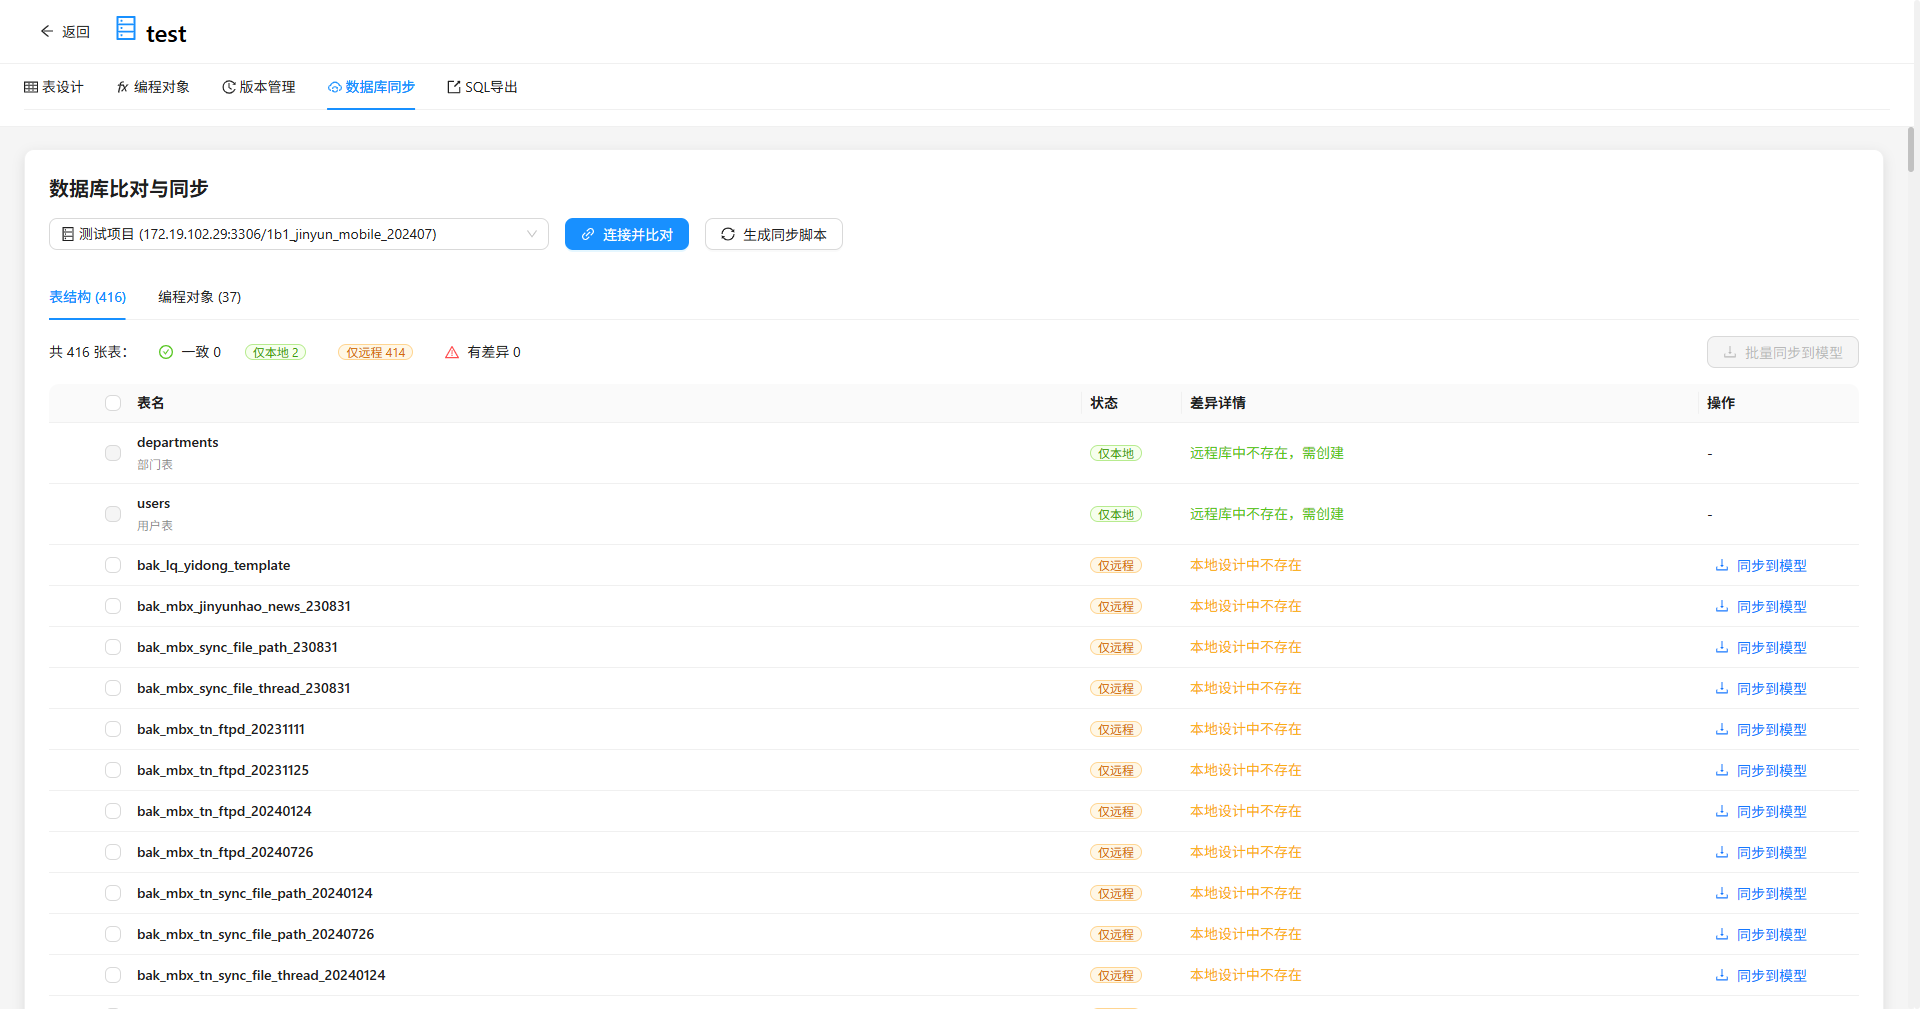
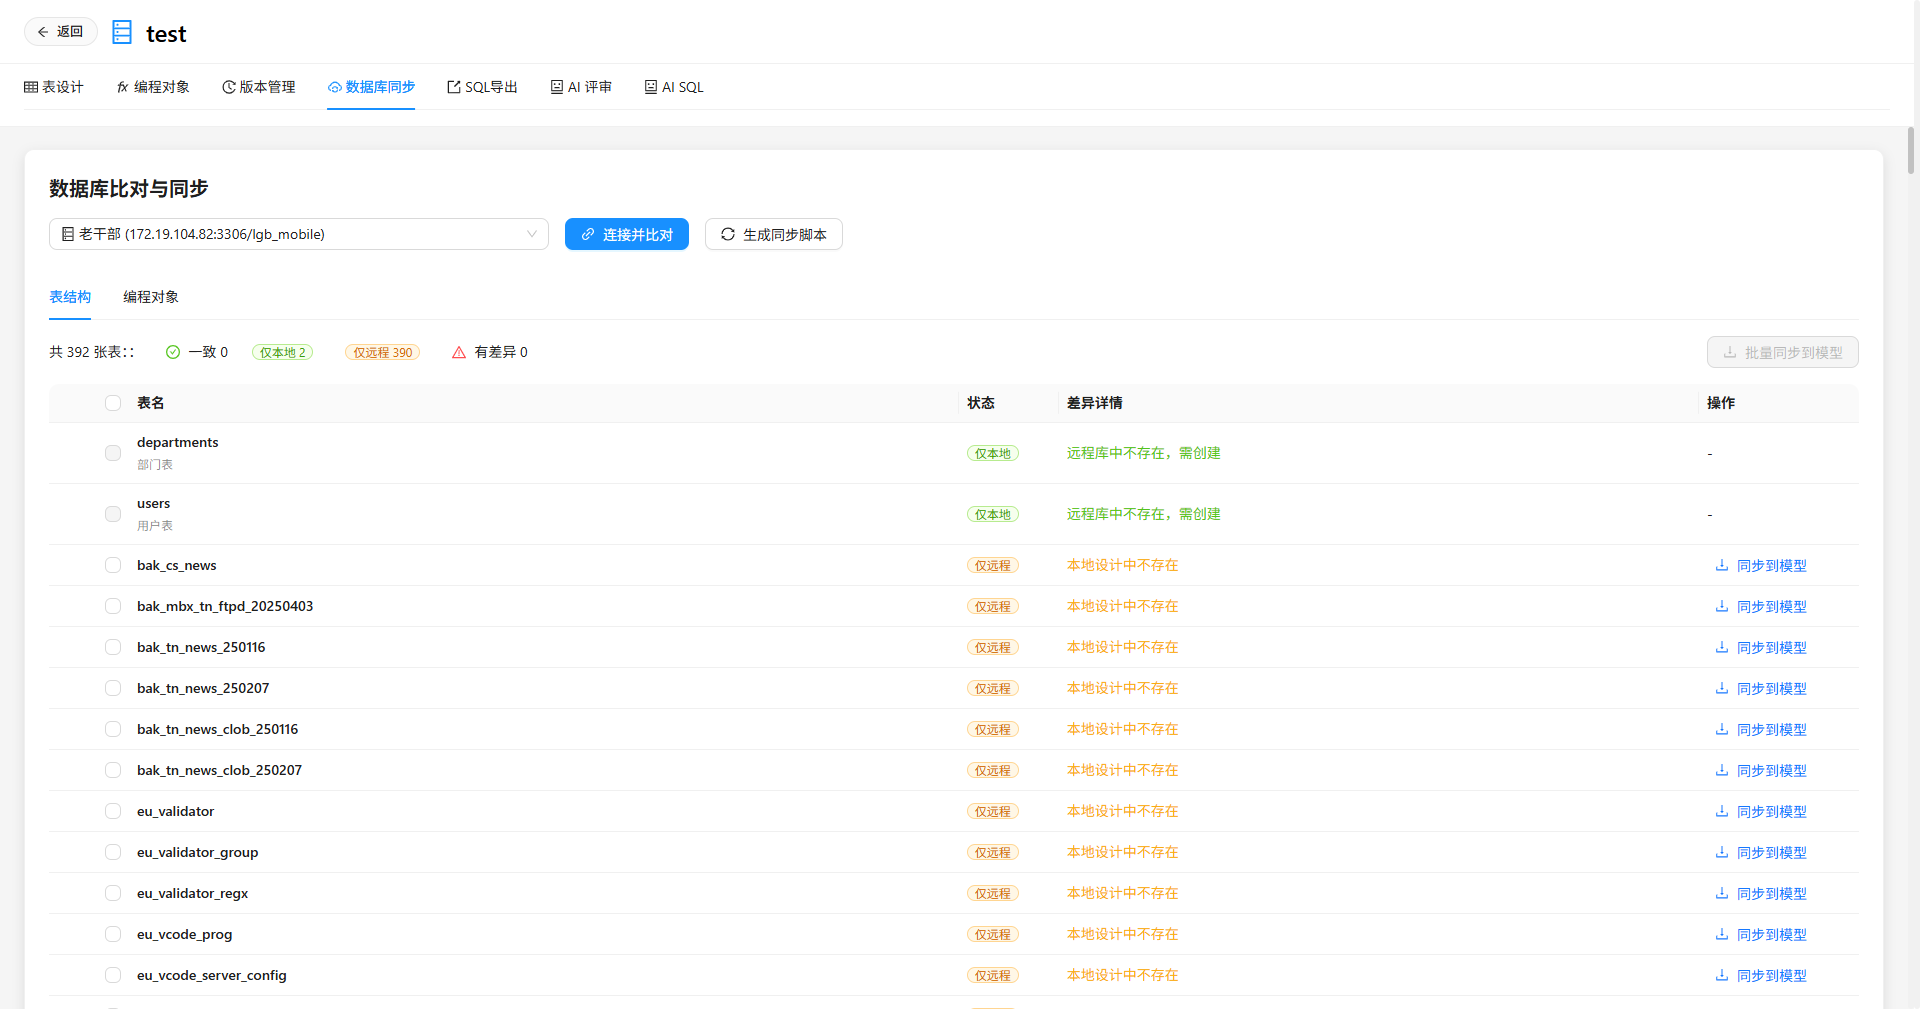
Refactor code structure for improved readability and maintainability

diff --git a/README.md b/README.md
@@ -1,48 +1,34 @@
 <div align="center">
 
-# DB Designer
-
-**AI-Powered Database Schema Design Tool**
-
-Natural Language Table Design / AI Index Optimization / AI Table Refactoring / Multi-Database Support / Version Management / Schema Sync
-
-[English](#) | [简体中文](README.zh-CN.md)
-
-[![Release](https://img.shields.io/github/v/release/dddcp/db-designer?style=flat-square)](https://github.com/dddcp/db-designer/releases)
-[![License](https://img.shields.io/badge/license-MIT-blue?style=flat-square)](https://github.com/dddcp/db-designer?tab=MIT-1-ov-file#readme)
-[![Platform](https://img.shields.io/badge/platform-Windows%20%7C%20macOS%20%7C%20Linux-lightgrey?style=flat-square)](https://github.com/dddcp/db-designer/releases)
-
-</div>
-
 ---
 
 ## AI Capabilities
 
 DB Designer deeply integrates large language models to cover the core aspects of database design:
 
-| Capability | Description |
-|------------|-------------|
-| **Natural Language Table Design** | Describe your business needs in a sentence, and AI generates the complete table structure, columns, types, and constraints automatically. |
-| **Project Context Awareness** | When designing new tables, AI automatically injects existing table structures, indexes, and metadata to understand the full business context, ensuring consistent naming conventions and reasonable relationships. |
-| **AI Table Refactoring** | Select any table, describe your modification intent in natural language, and AI generates the adjusted complete structure. |
-| **AI Design Preference Reuse** | Save reusable AI design prompts (e.g., primary key types, naming habits, audit fields) in the settings page. These are automatically injected into subsequent table generation. |
-| **AI Index Recommendation** | Provide slow query SQL or business characteristics (data volume, read/write ratio, performance pain points), and AI analyzes and recommends optimal index schemes with one-click creation. |
+| Capability                              | Description                                                                                                                                                                                                        |
+| --------------------------------------- | ------------------------------------------------------------------------------------------------------------------------------------------------------------------------------------------------------------------ |
+| **Natural Language Table Design** | Describe your business needs in a sentence, and AI generates the complete table structure, columns, types, and constraints automatically.                                                                          |
+| **Project Context Awareness**     | When designing new tables, AI automatically injects existing table structures, indexes, and metadata to understand the full business context, ensuring consistent naming conventions and reasonable relationships. |
+| **AI Table Refactoring**          | Select any table, describe your modification intent in natural language, and AI generates the adjusted complete structure.                                                                                         |
+| **AI Design Preference Reuse**    | Save reusable AI design prompts (e.g., primary key types, naming habits, audit fields) in the settings page. These are automatically injected into subsequent table generation.                                    |
+| **AI Index Recommendation**       | Provide slow query SQL or business characteristics (data volume, read/write ratio, performance pain points), and AI analyzes and recommends optimal index schemes with one-click creation.                         |
 
 > Compatible with all OpenAI API format model services (OpenAI / DeepSeek / Tongyi Qianwen / Local Ollama, etc.). Configure in the settings page.
 
 ## Features
 
-| Feature | Description |
-|---------|-------------|
-| Table Structure Design | Visually design tables, columns, and indexes with drag-and-drop sorting support. |
-| Metadata Management | Configure metadata for tables, support Excel import and INSERT statement export. |
-| Version Management | Take snapshots of project structures, support version diff comparison and SQL export. |
-| Database Comparison | Connect to remote MySQL / PostgreSQL / Oracle, compare differences between local design and online structure. |
-| Database Sync | Compare with online databases to generate incremental scripts; one-click sync of online table structures and programmable objects to the model library. |
-| Programmable Object Management | Supports CRUD, remote comparison, one-click sync, and SQL export for functions, stored procedures, and triggers. |
-| SQL Export | One-click export of complete SQL (table structure + indexes + metadata + programmable objects), supporting MySQL / PostgreSQL / Oracle. |
-| Git Data Sync | Manage design data through Git, support push and pull from remote (dangerous operations come with confirmation prompts). |
-| Local Config & Storage | Based on SQLite local storage, no internet required, no server needed. |
+| Feature                        | Description                                                                                                                                             |
+| ------------------------------ | ------------------------------------------------------------------------------------------------------------------------------------------------------- |
+| Table Structure Design         | Visually design tables, columns, and indexes with drag-and-drop sorting support.                                                                        |
+| Metadata Management            | Configure metadata for tables, support Excel import and INSERT statement export.                                                                        |
+| Version Management             | Take snapshots of project structures, support version diff comparison and SQL export.                                                                   |
+| Database Comparison            | Connect to remote MySQL / PostgreSQL / Oracle, compare differences between local design and online structure.                                           |
+| Database Sync                  | Compare with online databases to generate incremental scripts; one-click sync of online table structures and programmable objects to the model library. |
+| Programmable Object Management | Supports CRUD, remote comparison, one-click sync, and SQL export for functions, stored procedures, and triggers.                                        |
+| SQL Export                     | One-click export of complete SQL (table structure + indexes + metadata + programmable objects), supporting MySQL / PostgreSQL / Oracle.                 |
+| Git Data Sync                  | Manage design data through Git, support push and pull from remote (dangerous operations come with confirmation prompts).                                |
+| Local Config & Storage         | Based on SQLite local storage, no internet required, no server needed.                                                                                  |
 
 ## Screenshots
 
@@ -78,11 +64,11 @@ Supports unified management of functions, stored procedures, and triggers. Filte
 
 Download the installer for your platform from [Releases](https://github.com/dddcp/db-designer/releases):
 
-| Platform | Format |
-|----------|--------|
-| Windows | `.msi` / `.exe` |
-| macOS | `.dmg` |
-| Linux | `.deb` / `.AppImage` |
+| Platform | Format                   |
+| -------- | ------------------------ |
+| Windows  | `.msi` / `.exe`      |
+| macOS    | `.dmg`                 |
+| Linux    | `.deb` / `.AppImage` |
 
 ## Local Development
 
@@ -110,13 +96,13 @@ yarn tauri build
 
 ## Tech Stack
 
-| Layer | Technology |
-|-------|------------|
-| Framework | [Tauri 2](https://tauri.app/) |
-| Frontend | React 18 + TypeScript + Ant Design 5 |
-| Backend | Rust + SQLite (rusqlite) |
-| Database Connections | mysql / postgres / Oracle adapters |
-| Build Tool | Vite |
+| Layer                | Technology                           |
+| -------------------- | ------------------------------------ |
+| Framework            | [Tauri 2](https://tauri.app/)         |
+| Frontend             | React 18 + TypeScript + Ant Design 5 |
+| Backend              | Rust + SQLite (rusqlite)             |
+| Database Connections | mysql / postgres / Oracle adapters   |
+| Build Tool           | Vite                                 |
 
 ## Changelog
 